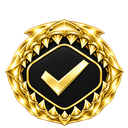
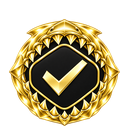
Preserve Megalodon artwork proportions in badge exports

diff --git a/src/components/app/BadgeIcon.tsx b/src/components/app/BadgeIcon.tsx
@@ -63,7 +63,7 @@ const BADGE_OPTICS: Record<string, { left: number; top: number; right: number; b
   "Killer Whale": { left: 19, top: 17, right: 109, bottom: 121 },
   "Great White Shark": { left: 8, top: 13, right: 121, bottom: 120 },
   "Blue Whale": { left: 7, top: 13, right: 119, bottom: 121 },
-  "Megalodon": { left: 8, top: 15, right: 120, bottom: 117 },
+  "Megalodon": { left: 11, top: 15, right: 117, bottom: 117 },
 };
 
 // Optical resting line of the original stills, measured like badgePosterSit.

diff --git a/src/lib/badge-poster-bounds.ts b/src/lib/badge-poster-bounds.ts
@@ -11,7 +11,7 @@ export const badgePosterBounds: Record<string, [number, number, number, number]>
   'Great White Shark': [5, 15, 120, 121],
   'Killer Whale': [19, 11, 93, 98],
   'Blue Whale': [16, 24, 122, 126],
-  'Megalodon': [5, 19, 124, 126],
+  'Megalodon': [9, 19, 120, 126],
 };
 
 /**
